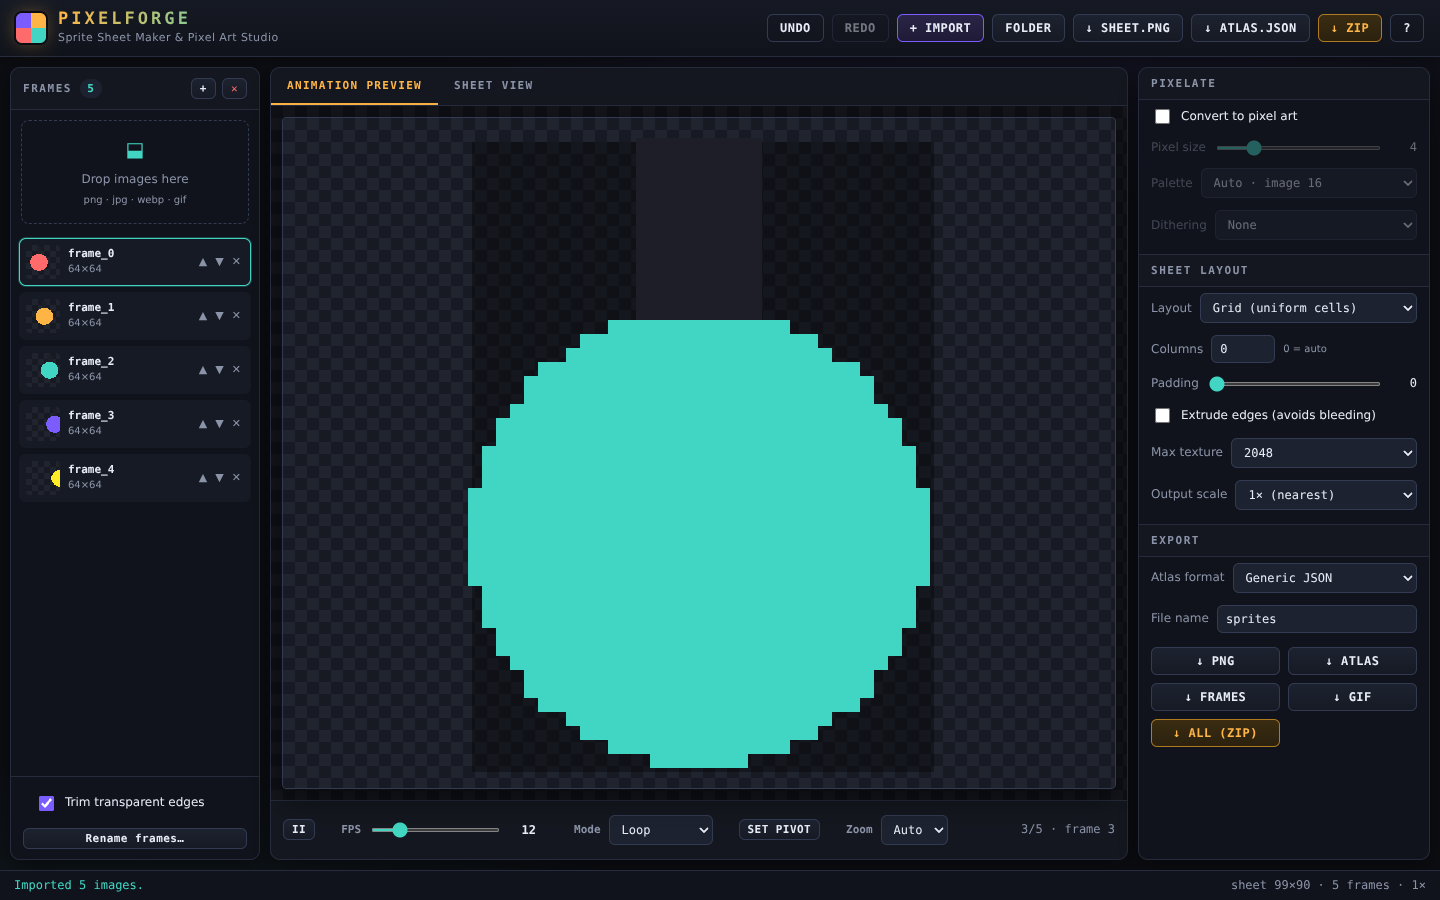
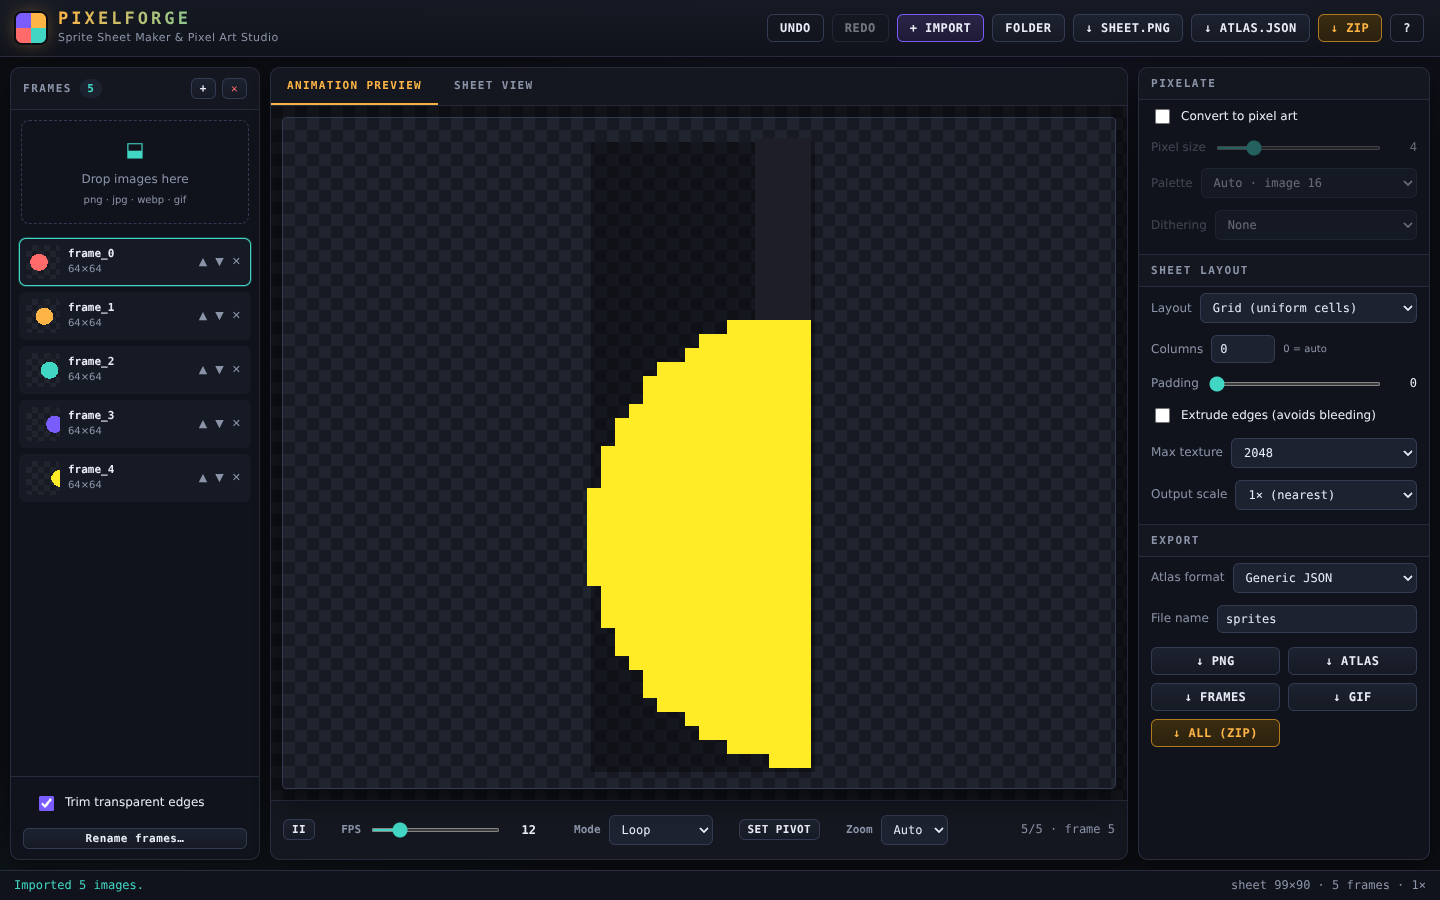
PixelForge: buyer-journey screenshots from v1.1.3 all-passed run

Changed region(s): [[0.3125, 0.3422, 0.6562, 0.8711]]

diff --git a/products/pixelforge/test/buyer_journey.js b/products/pixelforge/test/buyer_journey.js
@@ -16,7 +16,7 @@ const chromium = require("@sparticuz/chromium").default;
 
 const REPO = "DawshaX/BountyCore-assassin-and-work-done";
 const BRANCH = "arena/01a0f080-bountycore-assassin-and-work-d";
-const ZIP_PATH = "products/pixelforge/dist/PixelForge-v1.1.2.zip";
+const ZIP_PATH = "products/pixelforge/dist/PixelForge-v1.1.3.zip";
 const BUYER = "/tmp/buyer";
 const DL = "/tmp/buyer-downloads";
 const ASSETS = "/tmp/pfassets";
